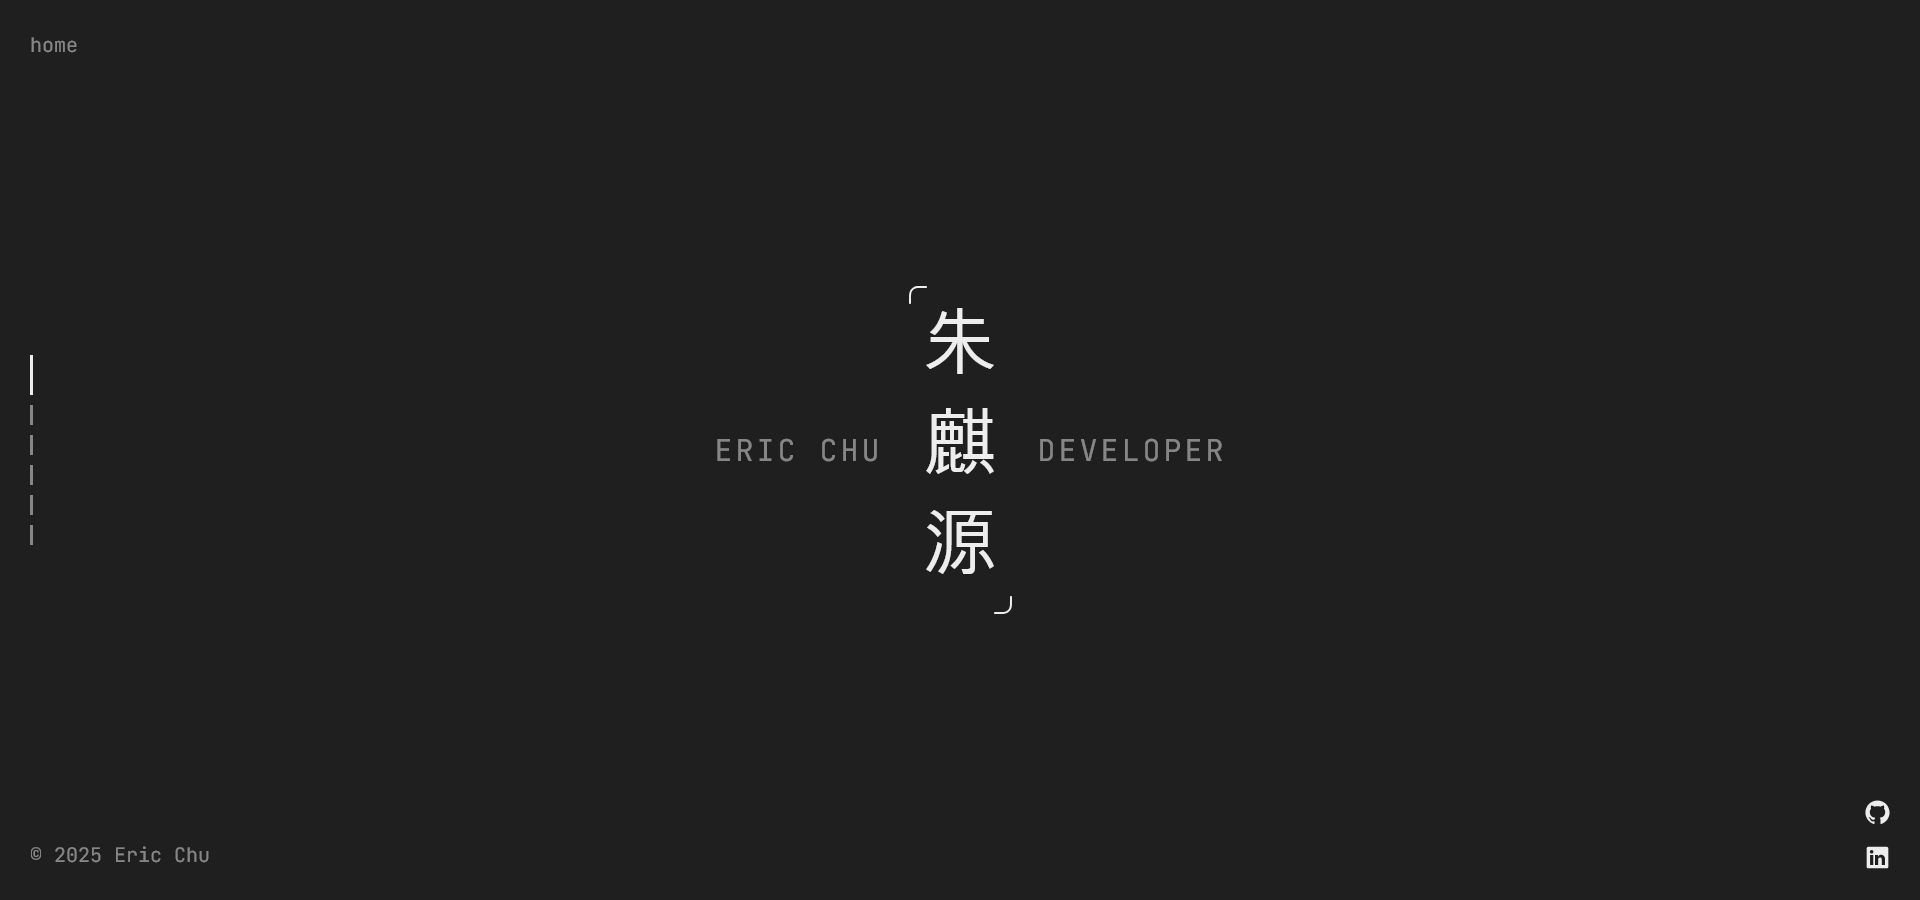
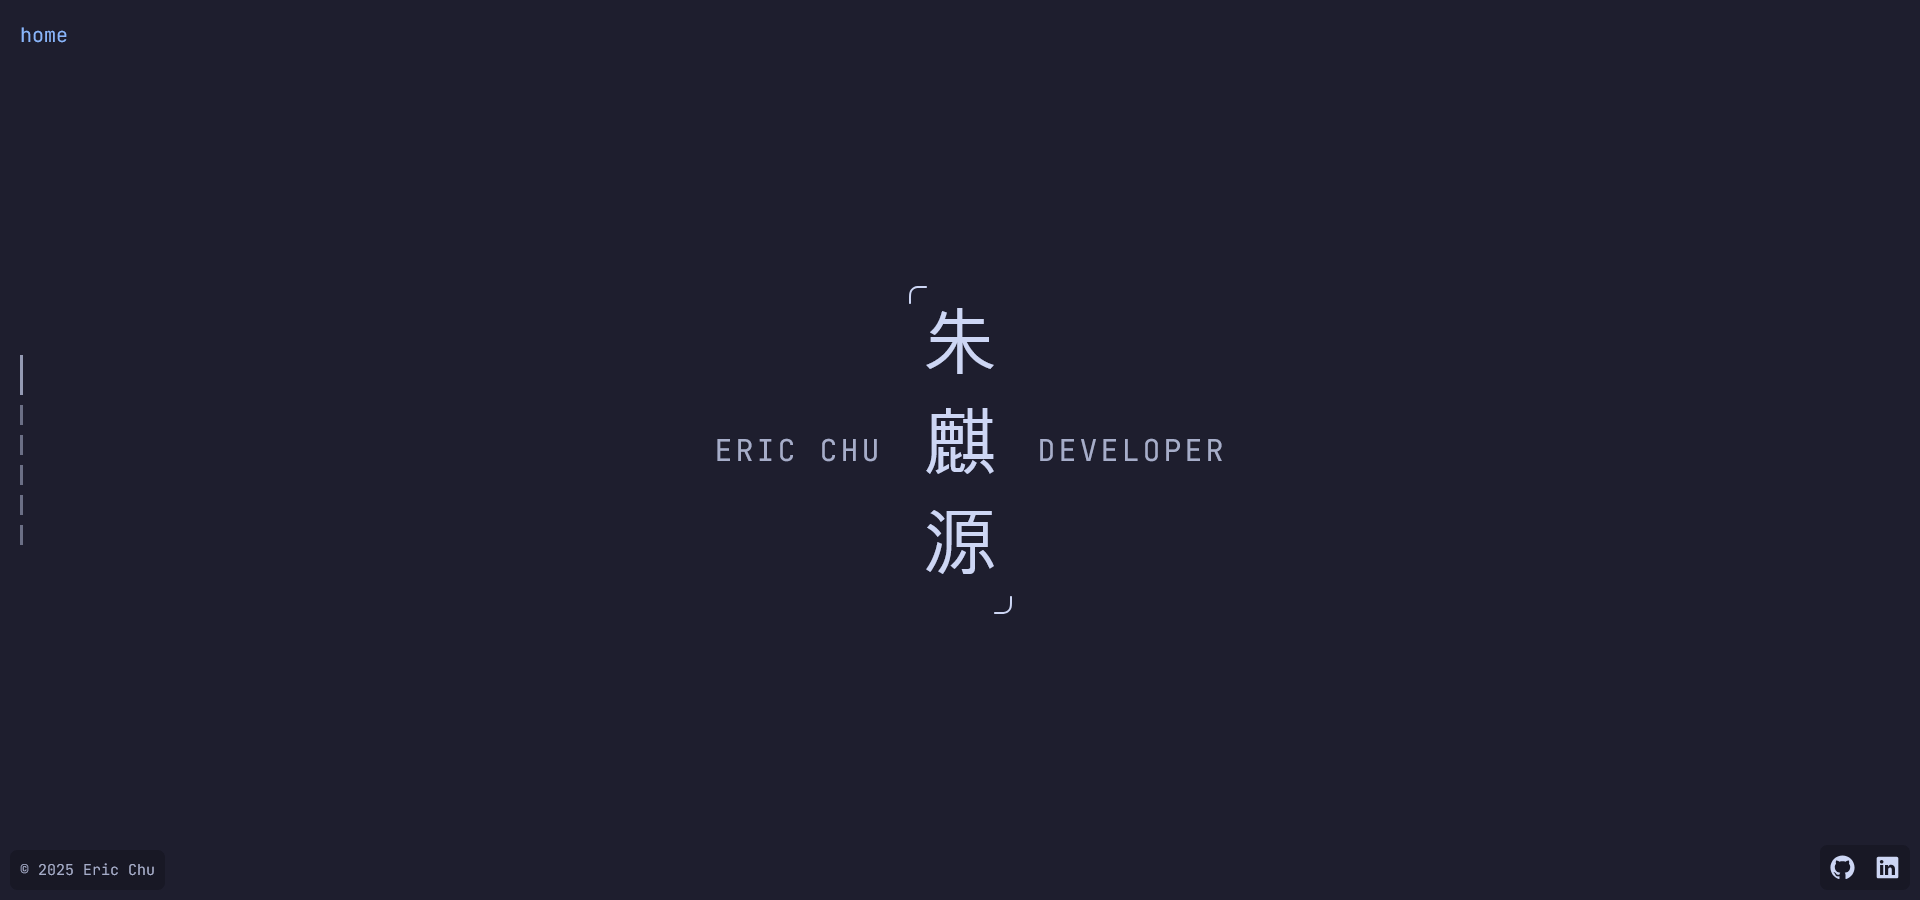
chore(css): updated styles

diff --git a/src/app/(home)/snaps.tsx b/src/app/(home)/snaps.tsx
@@ -36,13 +36,13 @@ function Home({ handler, id, title, hanzi, name }: Props & SnapHome): ReactEleme
           className='scroller-section flex items-center justify-center gap-4'
           ref={ref}
         >
-          <h1 className='basis-1/2 text-end text-lg text-yang/50 uppercase tracking-widest sm:text-2xl'>
+          <h1 className='basis-1/2 text-end text-ctp-subtext0 text-lg uppercase tracking-widest sm:text-2xl'>
             {name}
           </h1>
           <Corners as='div' className='[text-orientation:upright] [writing-mode:vertical-lr]'>
             <h1 className='select-none text-3xl tracking-[1rem] sm:text-6xl'>{hanzi}</h1>
           </Corners>
-          <h1 className='basis-1/2 text-lg text-yang/50 uppercase tracking-widest sm:text-2xl'>
+          <h1 className='basis-1/2 text-ctp-subtext0 text-lg uppercase tracking-widest sm:text-2xl'>
             {title}
           </h1>
         </section>
@@ -61,12 +61,14 @@ function Experience(p: Props & (typeof meta.experience)[number]): ReactElement {
           id={p.title}
         >
           <div className='space-y-2 px-16'>
-            <h2 className='text-lg uppercase tracking-widest sm:text-2xl'>{p.company}</h2>
-            <h3 className='text-base text-yang/50 uppercase tracking-widest sm:text-lg'>
+            <h2 className='text-ctp-subtext1 text-lg uppercase tracking-widest sm:text-2xl'>
+              {p.company}
+            </h2>
+            <h3 className='text-base text-ctp-subtext0 uppercase tracking-widest sm:text-lg'>
               {formatDateRange(p.start, p.end)}
             </h3>
             <h1 className='text-3xl uppercase tracking-widest sm:text-6xl'>{p.title}</h1>
-            <ul className='flex flex-wrap gap-4 text-xs sm:text-base'>
+            <ul className='flex flex-wrap gap-4 text-ctp-subtext0 text-xs sm:text-base'>
               {p.stack.map((s) => (
                 <li key={s}>{s}</li>
               ))}
@@ -88,12 +90,14 @@ function Education(p: Props & (typeof meta.education)[number]): ReactElement {
           id={p.cert}
         >
           <div className='space-y-2 px-16'>
-            <h2 className='text-lg uppercase tracking-widest sm:text-2xl'>{p.school}</h2>
-            <h3 className='text-base text-yang/50 uppercase tracking-widest sm:text-lg'>
+            <h2 className='text-ctp-subtext1 text-lg uppercase tracking-widest sm:text-2xl'>
+              {p.school}
+            </h2>
+            <h3 className='text-base text-ctp-subtext0 uppercase tracking-widest sm:text-lg'>
               {formatDateRange(p.start, p.end)}
             </h3>
             <h1 className='text-3xl uppercase tracking-widest sm:text-6xl'>{p.cert}</h1>
-            <ul className='flex flex-wrap gap-4 text-xs sm:text-base'>
+            <ul className='flex flex-wrap gap-4 text-ctp-subtext0 text-xs sm:text-base'>
               {p.projects.map((p) => (
                 <li key={p.link}>
                   <a href={p.link} target='_blank' rel='noopener noreferrer' className='underline'>

diff --git a/tailwind.config.ts b/tailwind.config.ts
@@ -6,10 +6,32 @@ const config: Config = {
   theme: {
     extend: {
       colors: {
-        yin: 'hsl(var(--yin))',
-        yang: 'hsl(var(--yang))',
-        flamingo: 'hsl(var(--flamingo))',
-        sapphire: 'hsl(var(--sapphire))',
+        'ctp-rosewater': 'hsl(var(--ctp-rosewater))',
+        'ctp-flamingo': 'hsl(var(--ctp-flamingo))',
+        'ctp-pink': 'hsl(var(--ctp-pink))',
+        'ctp-mauve': 'hsl(var(--ctp-mauve))',
+        'ctp-red': 'hsl(var(--ctp-red))',
+        'ctp-maroon': 'hsl(var(--ctp-maroon))',
+        'ctp-peach': 'hsl(var(--ctp-peach))',
+        'ctp-yellow': 'hsl(var(--ctp-yellow))',
+        'ctp-green': 'hsl(var(--ctp-green))',
+        'ctp-teal': 'hsl(var(--ctp-teal))',
+        'ctp-sky': 'hsl(var(--ctp-sky))',
+        'ctp-sapphire': 'hsl(var(--ctp-sapphire))',
+        'ctp-blue': 'hsl(var(--ctp-blue))',
+        'ctp-lavender': 'hsl(var(--ctp-lavender))',
+        'ctp-text': 'hsl(var(--ctp-text))',
+        'ctp-subtext1': 'hsl(var(--ctp-subtext1))',
+        'ctp-subtext0': 'hsl(var(--ctp-subtext0))',
+        'ctp-overlay2': 'hsl(var(--ctp-overlay2))',
+        'ctp-overlay1': 'hsl(var(--ctp-overlay1))',
+        'ctp-overlay0': 'hsl(var(--ctp-overlay0))',
+        'ctp-surface2': 'hsl(var(--ctp-surface2))',
+        'ctp-surface1': 'hsl(var(--ctp-surface1))',
+        'ctp-surface0': 'hsl(var(--ctp-surface0))',
+        'ctp-base': 'hsl(var(--ctp-base))',
+        'ctp-mantle': 'hsl(var(--ctp-mantle))',
+        'ctp-crust': 'hsl(var(--ctp-crust))',
       },
       fontFamily: {
         mono: ['var(--font-jetbrains-mono)'],

diff --git a/src/app/globals.css b/src/app/globals.css
@@ -4,11 +4,32 @@
 
 @layer base {
   :root {
-    --yin: 0 0 12%;
-    --yang: 0 0 93%;
-    --flamingo: 0 59% 88%;
-    --sapphire: 199 76% 69%;
-    --base: 240deg 21% 15%;
+    --ctp-rosewater: 10 56% 91%;
+    --ctp-flamingo: 0 59% 88%;
+    --ctp-pink: 316 72% 86%;
+    --ctp-mauve: 267 84% 81%;
+    --ctp-red: 343 81% 75%;
+    --ctp-maroon: 350 65% 77%;
+    --ctp-peach: 23 92% 75%;
+    --ctp-yellow: 41 86% 83%;
+    --ctp-green: 115 54% 76%;
+    --ctp-teal: 170 57% 73%;
+    --ctp-sky: 189 71% 73%;
+    --ctp-sapphire: 199 76% 69%;
+    --ctp-blue: 217 92% 76%;
+    --ctp-lavender: 232 97% 85%;
+    --ctp-text: 226 64% 88%;
+    --ctp-subtext1: 227 35% 80%;
+    --ctp-subtext0: 228 24% 72%;
+    --ctp-overlay2: 228 17% 64%;
+    --ctp-overlay1: 230 13% 55%;
+    --ctp-overlay0: 231 11% 47%;
+    --ctp-surface2: 233 12% 39%;
+    --ctp-surface1: 234 13% 31%;
+    --ctp-surface0: 237 16% 23%;
+    --ctp-base: 240 21% 15%;
+    --ctp-mantle: 240 21% 12%;
+    --ctp-crust: 240 23% 9%;
   }
 }
 

diff --git a/src/app/(home)/nav.tsx b/src/app/(home)/nav.tsx
@@ -7,11 +7,11 @@ import type { ReactElement } from 'react'
 export function SnapNav(): ReactElement {
   const { current } = useSnap()
   return (
-    <section className='fixed top-0 left-2 flex h-dvh flex-col justify-center gap-2 p-4'>
+    <section className='fixed top-0 left-2 flex h-dvh flex-col justify-center gap-2 p-2'>
       {SNAPS.map((s) => (
         <a
           data-state={current === s.id ? 'active' : 'inactive'}
-          className='h-4 w-0.5 bg-yang/50 transition-all data-[state=active]:h-8 data-[state=active]:bg-yang'
+          className='h-4 w-0.5 bg-ctp-overlay0 transition-all data-[state=active]:h-8 data-[state=active]:bg-ctp-overlay2'
           href={`#${s.id}`}
           key={s.id}
         >

diff --git a/src/app/not-found.tsx b/src/app/not-found.tsx
@@ -5,7 +5,7 @@ export default function NotFound(): ReactElement {
     <main className='flex h-dvh flex-col items-center justify-center gap-2 px-16'>
       <h1 className='text-center text-4xl uppercase tracking-widest sm:text-8xl'>404</h1>
       <h2 className='text-lg uppercase tracking-widest sm:text-2xl'>Not Found</h2>
-      <h3 className='text-base text-yang/50 sm:text-lg'>
+      <h3 className='text-base text-ctp-subtext0 sm:text-lg'>
         The page you're looking for doesn't exist.
       </h3>
     </main>

diff --git a/src/app/layout.tsx b/src/app/layout.tsx
@@ -42,7 +42,9 @@ export const metadata: Metadata = {
 export default function RootLayout({ children }: PropsWithChildren): ReactElement {
   return (
     <html lang='en'>
-      <body className={cn(jetbrainsMono.variable, jetbrainsMono.className, 'bg-yin text-yang')}>
+      <body
+        className={cn(jetbrainsMono.variable, jetbrainsMono.className, 'bg-ctp-base text-ctp-text')}
+      >
         <Nav />
         <Socials />
         <main>{children}</main>

diff --git a/src/icons/linkedin.tsx b/src/icons/linkedin.tsx
@@ -7,7 +7,7 @@ import type { IconProps } from './model'
 export function LinkedInIcon({ className }: IconProps): ReactElement {
   return (
     <a href={meta.linkedin} target='_blank' rel='noopener noreferrer'>
-      <LinkedInLogoIcon className={cn('size-4 text-yang', className)} />
+      <LinkedInLogoIcon className={cn('size-4 text-ctp-text', className)} />
       <div className='sr-only'>LinkedIn</div>
     </a>
   )

diff --git a/src/icons/github.tsx b/src/icons/github.tsx
@@ -7,7 +7,7 @@ import type { IconProps } from './model'
 export function GithubIcon({ className }: IconProps): ReactElement {
   return (
     <a href={meta.github} target='_blank' rel='noopener noreferrer'>
-      <GitHubLogoIcon className={cn('size-4 text-yang', className)} />
+      <GitHubLogoIcon className={cn('size-4 text-ctp-text', className)} />
       <div className='sr-only'>Github</div>
     </a>
   )

diff --git a/src/app/footer.tsx b/src/app/footer.tsx
@@ -3,7 +3,7 @@ import type { ReactElement } from 'react'
 export function Footer(): ReactElement {
   const year = new Date().getFullYear()
   return (
-    <footer className='fixed bottom-2 left-2 p-4 text-yang/50'>
+    <footer className='fixed bottom-2 left-2 rounded-md bg-ctp-mantle p-2 text-ctp-subtext0 text-xs'>
       <p>
         &copy; <time dateTime={year.toString()}>{year}</time> Eric Chu
       </p>

diff --git a/src/app/nav.tsx b/src/app/nav.tsx
@@ -3,8 +3,8 @@ import type { ReactElement } from 'react'
 
 export function Nav(): ReactElement {
   return (
-    <div className='fixed top-2 left-2 flex flex-col gap-4 p-4'>
-      <Link href='/' className='text-yang/50 transition-colors hover:text-yang'>
+    <div className='fixed top-2 left-2 flex flex-col gap-4 p-2'>
+      <Link href='/' className='text-ctp-blue'>
         home
       </Link>
     </div>

diff --git a/src/app/socials.tsx b/src/app/socials.tsx
@@ -3,7 +3,7 @@ import type { ReactElement } from 'react'
 
 export function Socials(): ReactElement {
   return (
-    <div className='fixed right-2 bottom-2 flex flex-col items-center gap-4 p-4'>
+    <div className='fixed right-2 bottom-2 flex items-center gap-4 rounded-md bg-ctp-mantle p-2'>
       <GithubIcon className='size-5' />
       <LinkedInIcon className='size-5' />
     </div>
